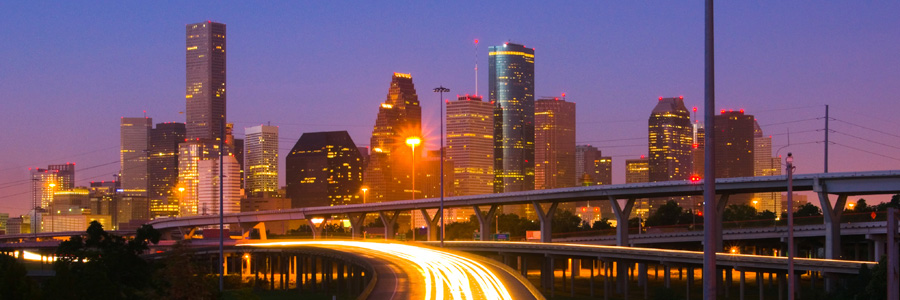
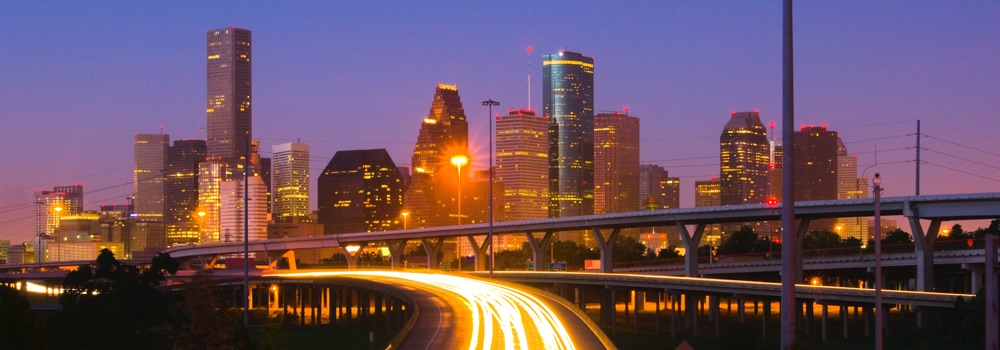
Style page headers and billboard images

diff --git a/app/assets/stylesheets/foundation_and_overrides.scss b/app/assets/stylesheets/foundation_and_overrides.scss
@@ -142,7 +142,7 @@ $body-bg: $smoke;
 // $last-child-float: $opposite-direction;
 
 // We use these to make sure border radius matches unless we want it different.
-// $global-radius: 3px;
+$global-radius: 5px;
 // $global-rounded: 1000px;
 
 // We use these to control inset shadow shiny edges and depressions.
@@ -199,7 +199,7 @@ $body-bg: $smoke;
 
 // We use these to control header font styles
 // $header-font-family: $body-font-family;
-// $header-font-weight: $font-weight-normal;
+$header-font-weight: $font-weight-bold;
 // $header-font-style: normal;
 // $header-font-color: $jet;
 // $header-line-height: 1.4;
@@ -208,12 +208,12 @@ $body-bg: $smoke;
 // $header-text-rendering: optimizeLegibility;
 
 // We use these to control header font sizes
-// $h1-font-size: rem-calc(44);
-// $h2-font-size: rem-calc(37);
-// $h3-font-size: rem-calc(27);
-// $h4-font-size: rem-calc(23);
-// $h5-font-size: rem-calc(18);
-// $h6-font-size: 1rem;
+$h1-font-size: rem-calc(26);
+$h2-font-size: rem-calc(24);
+$h3-font-size: rem-calc(22);
+$h4-font-size: rem-calc(20);
+$h5-font-size: rem-calc(18);
+$h6-font-size: 1rem;
 
 // We use these to control header size reduction on small screens
 // $h1-font-reduction: rem-calc(10);

diff --git a/app/assets/stylesheets/base.scss b/app/assets/stylesheets/base.scss
@@ -3,10 +3,56 @@
 @import "foundation_and_overrides";
 @import "globals/all";
 
+@mixin wide-margins {
+  margin-bottom: $panel-padding !important;
+  margin-left: -$panel-padding !important;
+  margin-right: -$panel-padding !important;
+  margin-top: -$panel-padding !important;
+}
+
 .button.google {
   background-color: $google-red;
 }
 
+.content {
+
+  h1 {
+    @include wide-margins;
+    background-color: $oil;
+    color: $white !important;
+    padding: $panel-padding;
+    text-transform: uppercase;
+
+    &::after {
+      color: $primary-color;
+      content: " ||"
+    }
+  }
+
+  .billboard {
+    @include wide-margins;
+    max-width: none;
+  }
+}
+
 .site-footer {
   color: $aluminum;
+
+  li,
+  p {
+    font-size: 0.8rem;
+  }
+}
+
+.site-footer-links {
+  @include inline-list();
+  display: inline-block;
+
+  a {
+    color: inherit;
+
+    &:hover {
+      color: scale-color($aluminum, $lightness: -40%)
+    }
+  }
 }

diff --git a/app/assets/stylesheets/layout.scss b/app/assets/stylesheets/layout.scss
@@ -6,4 +6,5 @@
   background-color: $white;
   border-radius: $global-radius;
   margin-top: $global-vertical-spacing;
+  overflow: hidden;
 }

diff --git a/app/assets/stylesheets/globals/_variables.scss b/app/assets/stylesheets/globals/_variables.scss
@@ -1,3 +1,3 @@
-$global-vertical-spacing: rem-calc(30);
+$global-vertical-spacing: rem-calc(20);
 
 $google-red: #dd4b39;
